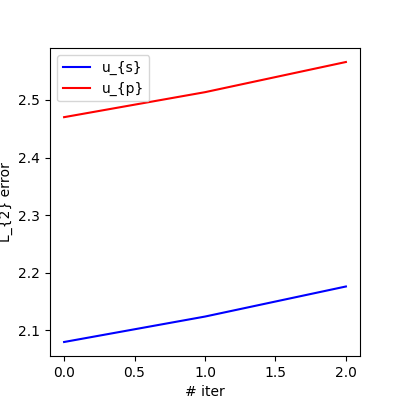
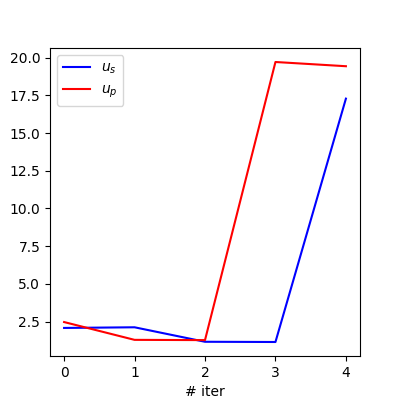
.

diff --git a/schwarz/poisson/FEM_FEM/poisson_schwarz.py b/schwarz/poisson/FEM_FEM/poisson_schwarz.py
@@ -29,7 +29,7 @@ def get_bound_coord(archor_p1, archor_p2, dim):
 def data2exp(data, V):
     ## data
     x, y, values = data[:,0], data[:,1], data[:,2]
-    interpolant = interp2d(x, y, values, kind='linear', copy=False, bounds_error=True)
+    interpolant = interp2d(x, y, values, kind='cubic', copy=False, bounds_error=True)
 
     class ExpressionFromScipyFunction(UserExpression):
         def __init__(self, f, **kwargs):
@@ -46,7 +46,7 @@ def get_true_u(coord):
 
 def main():
     ## parameter
-    niter = 3
+    niter = 5
     eps = 0.01
     gemma1_x, gemma1_y = 0.4, 0.6
     gemma2_x, gemma2_y = 0.3, 0.7
@@ -69,15 +69,15 @@ def main():
     u_true = Expression('1 + x[0]*x[0] + 2*x[1]*x[1]', degree=2)
     u_o = Expression('0', degree=1)
 
-    s_bo = 'on_boundary && x[0]>=0-DOLFIN_EPS && x[0]<=1+DOLFIN_EPS &&\
+    s_go = 'on_boundary && x[0]>=0-DOLFIN_EPS && x[0]<=1+DOLFIN_EPS &&\
             x[1]>=0-DOLFIN_EPS && x[1]<=1+DOLFIN_EPS' # mesh_s outer boundary, need to be consistent
-    s_b1 = 'on_boundary && x[0]>=0.4-DOLFIN_EPS && x[0]<=0.6+DOLFIN_EPS &&\
+    s_g1 = 'on_boundary && x[0]>=0.4-DOLFIN_EPS && x[0]<=0.6+DOLFIN_EPS &&\
             x[1]>=0.4-DOLFIN_EPS && x[1]<=0.6+DOLFIN_EPS' # mesh_s on Gemma 1
-    p_b2 = 'on_boundary && x[0]>=0.3-DOLFIN_EPS && x[0]<=0.7+DOLFIN_EPS &&\
+    p_g2 = 'on_boundary && x[0]>=0.3-DOLFIN_EPS && x[0]<=0.7+DOLFIN_EPS &&\
             x[1]>=0.3-DOLFIN_EPS && x[1]<=0.7+DOLFIN_EPS' # mesh_p on Gemma 2
-    mesh_s_bo = DirichletBC(V_s, u_true, s_bo)
-    mesh_s_b1 = DirichletBC(V_s, u_o, s_b1)
-    mesh_p_b2 = DirichletBC(V_p, u_o, p_b2)
+    mesh_s_go = DirichletBC(V_s, u_true, s_go)
+    mesh_s_g1 = DirichletBC(V_s, u_o, s_g1)
+    mesh_p_g2 = DirichletBC(V_p, u_o, p_g2)
 
     ## true solution
     u_es = interpolate(u_true, V_s)
@@ -111,56 +111,79 @@ def main():
     u_p = Function(V_p)
 
     ## Schwarz alternating method
-    tau = 1
-    u_s_g1_old = np.zeros((dim*4, 1))
-    u_s_g1_new = np.zeros((dim*4, 1))
-    u_s_g2_old = np.zeros((dim*4, 1))
-    u_s_g2_new = np.zeros((dim*4, 1))
+    tau_n1 = 0.5
+    # u_s_g1_old = np.zeros((dim*4, 1))
+    u_s_g1_new = np.zeros((dim*4, 1)) #
+    u_s_g2_old = np.zeros((dim*4, 1)) #
+    u_s_g2_new = np.zeros((dim*4, 1)) #
 
-    u_p_g1_old = np.zeros((dim*4, 1))
-    u_p_g1_new = np.zeros((dim*4, 1))
-    u_p_g2_old = np.zeros((dim*4, 1))
-    u_p_g2_new = np.zeros((dim*4, 1))
+    u_p_g1_old = np.zeros((dim*4, 1)) #
+    # u_p_g1_new = np.zeros((dim*4, 1))
+    u_p_g2_old = np.zeros((dim*4, 1)) #
+    u_p_g2_new = np.zeros((dim*4, 1)) #
 
     err_his = np.zeros((niter, 2)) ## [err_in, err_out]
     for iter in range(0, niter):
-        if iter != 0:
+        if iter == 0:
+            solve(a_s == L_s, u_s, [mesh_s_go, mesh_s_g1])
+            solve(a_p == L_p, u_p, mesh_p_g2)
+
+            for id, coord in enumerate(g2_coord):
+                u_s_g2_old[id] = u_s(coord)
+                u_p_g2_old[id] = u_s(coord)
+
+        else:   
             ## step a
             for id, coord in enumerate(g1_coord):
-                u_p_g2_old[id] = u_p(coord)
-            u_s_g1_new = np.copy(u_p_g2_old)
+                u_p_g1_old[id] = u_p(coord)
+            u_s_g1_new = np.copy(u_p_g1_old)
 
             u_s_intp = np.concatenate((u_s_g1_new, u_s_out), axis=0)
             x_s_intp = np.concatenate((g1_coord, o_coord), axis=0)
             u_s_bc_exp = data2exp(np.concatenate((x_s_intp, u_s_intp), axis=1), V_s)
 
             ## step b
-            mesh_s_b1 = DirichletBC(V_s, u_s_bc_exp, s_b1)
-            solve(a_s == L_s, u_s, [mesh_s_bo, mesh_s_b1])
+            mesh_s_g1 = DirichletBC(V_s, u_s_bc_exp, s_g1)
+            solve(a_s == L_s, u_s, [mesh_s_go, mesh_s_g1])
 
             ## step c, d
             for id, coord in enumerate(g2_coord):
                 u_s_g2_new[id] = u_s(coord)
-            # u_s_g1_new = np.copy(u_s_g2_new)
 
             ## step e (relaxation)
+            if iter == 1:
+                Q_n1 = u_s_g2_new #np.zeros((dim*4, 1))
+            else:
+                Q_n1 = Q_n
             Q_n = u_s_g2_new - u_p_g2_old
-            Q_n1 = u_s_g2_old - u_p_g2_old ## wrong!!
-            tau_n = tau + (tau-1)*((Q_n1 - Q_n)*Q_n).sum()/( ((Q_n1 - Q_n)**2).sum() )
 
-            u_p_g2_new = tau*u_p_g2_old + (1-tau)*u_s_g2_new
+            # print(f'u_s_g2_new: {u_s_g2_new}')
+            # print(f'u_p_g2_old: {u_p_g2_old}')
+            # print(f'u_p_g2_new: {u_p_g2_new}')
+            
+            tau_n = tau_n1 + (tau_n1 - 1)*((Q_n1 - Q_n)*Q_n).sum()/(((Q_n1 - Q_n)**2).sum())
+            u_p_g2_new = tau_n*u_p_g2_old + (1 - tau_n)*u_s_g2_new
+
+            print(f'iter: {iter}, tau_n: {tau_n}')
+            print(f'iter: {iter}, q/q_n: {((Q_n1 - Q_n)*Q_n).sum()/(((Q_n1 - Q_n)**2).sum())}')
+
+            tmp = ((Q_n1 - Q_n)**2).sum()
+            if tmp == 0:
+                print(f'iter: {iter}')
+                print(Q_n1)
+                print(Q_n)
+                exit()
+            # exit()
 
             ## step f
             u_p_bc_exp = data2exp(np.concatenate((g2_coord, u_p_g2_new), axis=1), V_p)
-            mesh_p_b2 = DirichletBC(V_p, u_p_bc_exp, p_b2)
-            solve(a_p == L_p, u_p, mesh_p_b2)
+            mesh_p_g2 = DirichletBC(V_p, u_p_bc_exp, p_g2)
+            solve(a_p == L_p, u_p, mesh_p_g2)
 
-            ## step g (useless)
-
-        else:   
-            ## solve
-            solve(a_s == L_s, u_s, [mesh_s_bo, mesh_s_b1])
-            solve(a_p == L_p, u_p, mesh_p_b2)
+            ## update
+            u_p_g2_old = np.copy(u_p_g2_new)
+            tau_n = np.copy(tau_n1)
+            # Q_n1 = Q_n
 
         ## error 
         error_s = np.abs(np.array(u_es.vector()) - np.array(u_s.vector())).max()
@@ -214,10 +237,10 @@ def main():
     fig = plt.figure(constrained_layout=False, figsize=(4, 4))
     gs = fig.add_gridspec(1, 1)
     ax = fig.add_subplot(gs[0])
-    ax.plot(err_his[:, 0], color='blue', label='u_{s}')
-    ax.plot(err_his[:, 1], color='red', label='u_{p}')
+    ax.plot(err_his[:, 0], color='blue', label='$u_{s}$')
+    ax.plot(err_his[:, 1], color='red', label='$u_{p}$')
     ax.set_xlabel('# iter')
-    ax.set_ylabel('L_{2} error')
+    ax.set_ylabel('$L_{2}$ error')
     ax.legend()
     plt.savefig("convergence.png")
     plt.close()
